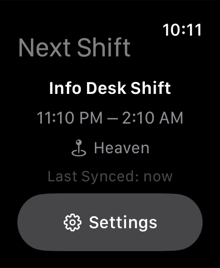
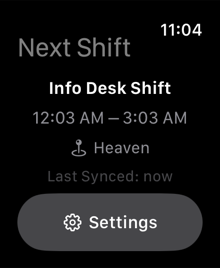
docs(guide): every screen in the guide, Features list, support and privacy text
Backlog: W-03, W-05, W-07

Claude-Session: https://claude.ai/code/session_01EeHRYGacgrwqZnSj9gU9NZ

Changed region(s): [[0.1364, 0.4179, 0.4909, 0.4776], [0.5455, 0.4179, 0.8455, 0.4776], [0.7364, 0.0896, 0.9273, 0.1493]]

diff --git a/docs/guide.md b/docs/guide.md
@@ -37,6 +37,8 @@ network requests. You can leave Demo Mode on, or switch it off and add a real se
    address (for example `https://engel.example.org`) and your **API key**.
 3. Tap **Test Connection**. When it says the connection is verified, tap **Save**.
 
+![Add Instance](assets/guide/screens/add-instance.png){: width="200"}
+
 A server address that starts with `demo://` (for example `demo://engelsystem.local`) is a demo instance: it needs no API key, the key field is greyed out.
 
 The API key is stored in the iOS Keychain (synced through iCloud Keychain if you use it) and is only ever sent to the server
@@ -51,9 +53,16 @@ syncing — with several active instances one line per instance, each with its s
 ends the sync (after a confirmation) and **Skip** leaves out just that instance. The line at the bottom of the list shows how old each instance's data is
 (tap it to refresh). The gear button opens **Settings**.
 
+![Main screen](assets/guide/screens/main-page.png){: width="200"}
+![Main screen with two instances](assets/guide/screens/main-page-two-instances.png){: width="200"}
+
 ### Shifts
 
 ![Shifts](assets/guide/shifts.png){: width="240"}
+
+![Filter and sort menu](assets/guide/screens/shifts-filter-and-sort-menu.png){: width="200"}
+![Shift details](assets/guide/screens/shift-detail.png){: width="200"}
+![Location opened from a shift](assets/guide/screens/location-detail-from-shift.png){: width="200"}
 
 Your shifts, grouped by day ("Today", "Tomorrow", …). Each shift shows its time and location; tap the location to read its
 description. Pull down to refresh. A small badge shows which instance a shift belongs to when you use several.
@@ -72,6 +81,9 @@ shift.
 
 ![News](assets/guide/news.png){: width="240"}
 
+![Expanded news post](assets/guide/screens/news-expanded.png){: width="200"}
+![News comments](assets/guide/screens/news-comments.png){: width="200"}
+
 Announcements from the instance. Pinned posts come first. Tap **Read More** to expand long posts and the **comments** link to
 read the discussion. The filter button at the top shows only **Meetings** or only other posts.
 
@@ -87,6 +99,8 @@ added by hand; hours from your shifts are not part of that list.
 
 ![Locations](assets/guide/locations.png){: width="240"}
 
+![Location details](assets/guide/screens/location-detail.png){: width="200"}
+
 All rooms and places of the instance with their descriptions. Tap one for details such as a DECT number and a link to the map. The map page is shown right inside the location screen (almost full screen, loaded fresh each time) with an **Open Map in Browser**
 button. The map page's cookies (for example your consent) stay on your device; the app deletes them every 30 days by default (or keeps them only until you quit the app, if you choose that); in **Settings › Privacy** you can change that, delete them yourself or
 switch to a plain link.
@@ -94,6 +108,9 @@ switch to a plain link.
 ### Messages
 
 ![Messages](assets/guide/messages.png){: width="240"}
+
+![A conversation](assets/guide/screens/conversation.png){: width="200"}
+![New message](assets/guide/screens/new-message.png){: width="200"}
 
 Private messages with other helpers. Tap the compose button to start a conversation, tap a conversation to read and reply.
 The **Messages** area only appears if at least one of your active servers supports it; if you do not see it, your server is
@@ -106,11 +123,30 @@ simply not offering it yet (it needs the open Engelsystem change
 
 Settings is a short list of pages; each row shows a summary of its current state.
 
+![Instances](assets/guide/screens/settings-instances.png){: width="160"}
+![An instance](assets/guide/screens/instance-page.png){: width="160"}
+![An instance's Features list](assets/guide/screens/instance-features.png){: width="160"}
+![Notifications](assets/guide/screens/settings-notifications.png){: width="160"}
+![Sync](assets/guide/screens/settings-sync.png){: width="160"}
+![Phone Numbers](assets/guide/screens/settings-phone-numbers.png){: width="160"}
+![Privacy](assets/guide/screens/settings-privacy.png){: width="160"}
+![Diagnostics](assets/guide/screens/settings-diagnostics.png){: width="160"}
+![Export Diagnostics](assets/guide/screens/export-diagnostics.png){: width="160"}
+![Debug Log](assets/guide/screens/debug-log.png){: width="160"}
+![About](assets/guide/screens/settings-about.png){: width="160"}
+
 - **Instances**: all your instances. Use the switch to turn an instance on or off (switching one on refreshes its data right away); tap one to open its page: there you change its name, server or API key right on the page — **Save** and **Discard** (which asks first) appear as soon as
   something changed, and saving does not need a successful connection test (**Test Connection** is optional) — or remove it (this also removes the data cached for it). **Multiple Active Instances** chooses how Shifts, News and Profile show
   more than one active instance: **Merged** (one list, labeled by instance), **Switcher** (one instance at a time via a control at the
   top) or **Sectioned** (one section per instance, each under a colored band you can tap to fold away). Every instance has a **color** (**Settings → Instances →** the instance → **Color**; "Auto" spreads the colors evenly, a picked color is kept on all your devices). **Parallel Syncs** sets how many instances are refreshed at the same time (Unlimited by default,
   "1 at a time" syncs one after the other); the setting belongs to this device, and the Watch has its own.
+
+![Two instances](assets/guide/screens/settings-instances-two.png){: width="160"}
+![Shifts, sectioned](assets/guide/screens/shifts-sectioned.png){: width="160"}
+![Shifts, merged](assets/guide/screens/shifts-merged.png){: width="160"}
+![Locations, merged](assets/guide/screens/locations-merged.png){: width="160"}
+![News, sectioned](assets/guide/screens/news-sectioned.png){: width="160"}
+![Locations, sectioned](assets/guide/screens/locations-sectioned.png){: width="160"}
 - **Notifications**: the reminder times before each shift ("15 min", …). **Add Reminder** adds more, the red button removes
   one. **Notify on New News** posts a notification when a background sync finds new announcements. **Apple Watch Reminders**
   is the same for your Watch, independently of the iPhone list.
@@ -131,13 +167,37 @@ Settings is a short list of pages; each row shows a summary of its current state
 
 ![Next Shift on Apple Watch](assets/guide/watch-next-shift.png){: width="160"}
 ![Watch settings](assets/guide/watch-settings.png){: width="160"}
+![Watch: Instances](assets/guide/screens/watch-settings-instances.png){: width="140"}
+![Watch: Notifications](assets/guide/screens/watch-settings-notifications.png){: width="140"}
+![Watch: Sync](assets/guide/screens/watch-settings-sync.png){: width="140"}
+![Watch: Diagnostics](assets/guide/screens/watch-settings-diagnostics.png){: width="140"}
+![Watch: About](assets/guide/screens/watch-settings-about.png){: width="140"}
 
 The Watch app shows only your **next shift** (name, time, location) and works on its own, without the iPhone nearby. Its
-**Settings** let you switch instances on or off, add an instance directly on the Watch, and set the Watch's reminder times.
+**Settings** are a list of pages like the iPhone's: **Instances** (switch instances on or off, add one directly on the Watch, Parallel Syncs), **Notifications** (the Watch's own reminder times), **Sync**, **Diagnostics** (its own debug logging switch and **Send Log to iPhone**) and **About**.
 Your instances are shared between iPhone and Watch through iCloud.
 
 To add the **complication**: on the Watch, touch and hold the watch face, tap **Edit**, choose a complication slot and pick
 **Next Shift** (circular, rectangular and inline styles are available).
+
+## What your instance offers: the Features list
+
+Not every Engelsystem server and not every account can use everything. The app finds out for each instance and keeps a **Features
+list**: **Settings → Instances →** the instance → **Features**. Every row is one function (Shifts, News, News comments, Locations,
+Location details, Messages, Work logs, Angel types, and the extra details of shifts) with one of three states:
+
+- **Available** — the server offers it and your account may use it.
+- **Not allowed for your account** — the server offers it but your account lacks a privilege; the row names the privilege when the
+  server tells (for example `locations.view`). Ask the people who run your instance, or see [Server compatibility](#server-compatibility).
+- **Not offered by the server** — the server does not have the function (yet).
+
+Each row also says when it was checked. The list is learned from the server's answers during every sync and by **Test Connection**; it
+belongs to this device and is not synced. While everything works the list is folded to one line ("11 of 11 features available"; tap it
+to open it); as soon as something is missing it opens by itself, problems first. Areas that are not available are **hidden quietly**:
+no error, no empty screens. Demo Mode offers everything, except the `demo://` address that only has News on purpose. See also the
+[FAQ](faq.md#where-can-i-see-what-my-account-may-use).
+
+![An instance's Features list](assets/guide/screens/instance-features.png){: width="200"}
 
 ## Server compatibility
 

diff --git a/docs/backlog.md b/docs/backlog.md
@@ -17,20 +17,6 @@ the W tasks alongside, the R tasks when the owner reports a merge.
 
 ### Website (GitHub Pages; each step its own commit)
 
-- [ ] **W-03** With K-11: "Instance features" in the guide, FAQ entries ("Why is an area missing?", "What may my account
-      do?"), privacy and support pages.
-- [ ] **W-05** Screenshots: new scenes (main screen with groups, shift detail, settings hub, features list) in
-      `ScreenshotTests`/`Scripts/screenshots.sh`/`Scripts/publish-guide-images.sh`; refresh `docs/assets/guide/`. The main
-      screen and settings first (after W-02), shift detail after S-04, features list after K-11.
-- [ ] **W-07** Manual screenshots of **every screen** (planned 2026-10-16), separate from the App Store set: a second UI test
-      `ManualScreenshotTests` (demo data, same simulator preparation) walks every screen — main page, each area (shifts incl.
-      filter/sort menu and shift detail, news incl. article and comments, profile, locations incl. detail, messages list,
-      conversation and new message), Settings hub and every sub-page (Instances, instance page incl. Features list, Add Instance,
-      Notifications, Sync, Phone Numbers, Privacy, Diagnostics incl. Watch logs, About), the multi-instance views (sectioned/
-      merged, color picker) and the Watch (next shift, settings hub and sub-pages). Output `Screenshots/manual/<device>/NN-<name>.png`;
-      `Scripts/screenshots.sh manual` and an extended `Scripts/publish-guide-images.sh` copy them as small PNGs to
-      `docs/assets/guide/`; `docs/guide.md` embeds each screen at its place. A checklist in `docs/testing.md` ("new screen =
-      new scene") keeps the set complete. Replaces the scenes listed in W-05. Decided 2026-10-16: iPhone and Watch only (iPad only for a screen whose layout differs), English only.
 - [ ] **W-06** After each R task: delete that PR's row from the compatibility table; at R-13 remove the section (the
       privilege explanation stays).
 

diff --git a/docs/app-store.md b/docs/app-store.md
@@ -157,7 +157,7 @@ both added via the `xcodeproj` Ruby gem, not by hand-editing
 
 ## Screenshots
 
-`Scripts/screenshots.sh [iphone|ipad|watch|all]` generates every App Store screenshot from Demo Mode into
+`Scripts/screenshots.sh [iphone|ipad|watch|all|manual]` (`manual` = every screen for the guide, see `testing.md`) generates every App Store screenshot from Demo Mode into
 `Screenshots/<device>/en/NN-<scene>.png` (git-ignored); design and rationale in
 [ADR 0011](adr/0011-native-tooling-for-app-store-screenshots.md). It creates and uses its own simulators, sets English (US),
 light appearance and the 9:41 status bar, runs the scenes on a fresh install, verifies the exact pixel size and fails if a
@@ -177,7 +177,7 @@ Sizes checked against App Store Connect's "Screenshot specifications" on 2026-10
   `simctl io screenshot`. Both launch arguments do nothing in Release builds.
 - **Guide images**: `Scripts/publish-guide-images.sh` copies small versions of these screenshots into `docs/assets/guide/` for the
   published [user guide](guide.md); rerun it (after `Scripts/screenshots.sh`) whenever the UI or the demo data changes visibly and
-  commit the result.
+  commit the result. It also publishes the manual set (every screen, `Screenshots/manual/`) as `docs/assets/guide/screens/`.
 - **Known cosmetics**: the Watch shows the real time; the iPad shows its windowing chrome (app name in the status bar, a
   window handle in the lower right corner); some screens show "Last Synced: …".
 - **Gotchas**: build with normal simulator signing (never `CODE_SIGNING_ALLOWED=NO`); the first sync's notification prompt only

diff --git a/docs/testing.md b/docs/testing.md
@@ -152,6 +152,14 @@ also stated in [`CLAUDE.md`](../CLAUDE.md).
 - **`-skipNotificationPrompt YES`** (Debug builds only, honoured by `NotificationScheduler`): skips the notification permission
   prompt; used for the Watch screenshot. **`ScreenshotTests`** is not a regression test — run it through
   `Scripts/screenshots.sh` (see `app-store.md`).
+- **`ManualScreenshotTests`** (2026-10-16) is the second screenshot class: every iPhone screen once for the guide
+  (`Scripts/screenshots.sh manual` → `Screenshots/manual/iphone/en/NN-<name>.png`, plus the Watch's Settings pages via the
+  Debug-only `-open-settings -open-settings-page <Instances|Notifications|Sync|Diagnostics|About>` arguments into
+  `Screenshots/manual/watch/en/`; `Scripts/publish-guide-images.sh` turns them into `docs/assets/guide/screens/`). **A new
+  screen needs a new scene in `ManualScreenshotTests` and its image in `guide.md`.** A scene whose screen cannot be reached is
+  skipped, so after a run check the count and look at the images. The test passes `-reset-instances` (earlier runs leave a
+  second instance behind) and waits for the first sync. Not captured: the open color menu of an instance (system menus are not
+  in the accessibility tree here), the Watch's instance page.
 
 ## Compatibility matrix (ADR 0015)
 

diff --git a/docs/features.md b/docs/features.md
@@ -1288,3 +1288,10 @@ Details and the full register: [`architecture.md`](architecture.md#compatibility
 - **Log on Apple Watch**: the wish travels in the application context (merged `WatchContextState`, so shift nudges, requests and the switch do not
   overwrite each other); the newer change wins (`DebugLog.apply`), the Watch reports its state back (`WatchLogReport`) and the status line compares
   wish and report (`WatchLoggingStatus`).
+
+## Screenshots of every screen (2026-10-16)
+- `ManualScreenshotTests` (iPhone, Demo Mode, English) captures every screen once — main page, each area with its detail
+  pages, the Settings hub and every page, Add Instance, the multi-instance views (Sectioned, Merged) — and the Watch's Settings
+  pages are captured through the Debug-only `-open-settings-page` launch argument (`DemoSeeding.settingsPage`).
+  `Scripts/screenshots.sh manual` writes `Screenshots/manual/`, `Scripts/publish-guide-images.sh` copies small versions to
+  `docs/assets/guide/screens/`, and `docs/guide.md` embeds them next to the text. Shared helpers: `ScreenshotTestCase`.

diff --git a/docs/privacy.md b/docs/privacy.md
@@ -44,6 +44,10 @@ profile, or any other data you access through the app.
   removed together with the instance. The “Sign out in browser” button
   only opens the shift's page in your default browser — the app does
   not sign you out itself.
+- **What your account may use**: the app asks your server which privileges your account has (the list the server returns with
+  your own user data) and notes, per instance, which functions are available. This result stays on the device where it was
+  determined (it is not synced and not sent anywhere except by asking that same server again on the next sync); it is shown in
+  Settings → Instances → your instance → Features.
 - **Private messages** (on servers that support this feature): fetched
   live from the Engelsystem server each time you open a conversation —
   not cached or stored by the app at all.

diff --git a/docs/support.md b/docs/support.md
@@ -35,6 +35,11 @@ the Engelsystem REST API v0-beta.
 Use "Try Demo Mode" on the first screen — it works entirely with
 sample data, no server or account needed.
 
+**An area (Messages, Locations, news comments) is missing.**
+Your server or your account does not offer it (yet); the app hides what is not available. **Settings → Instances →** your
+instance → **Features** shows why. See the [FAQ](faq.md#why-do-i-not-see-comments-locations-or-messages) and the
+[User Guide](guide.md#what-your-instance-offers-the-features-list).
+
 ## Privacy
 
 See the [Privacy Policy](privacy.md) for what data the app handles and
